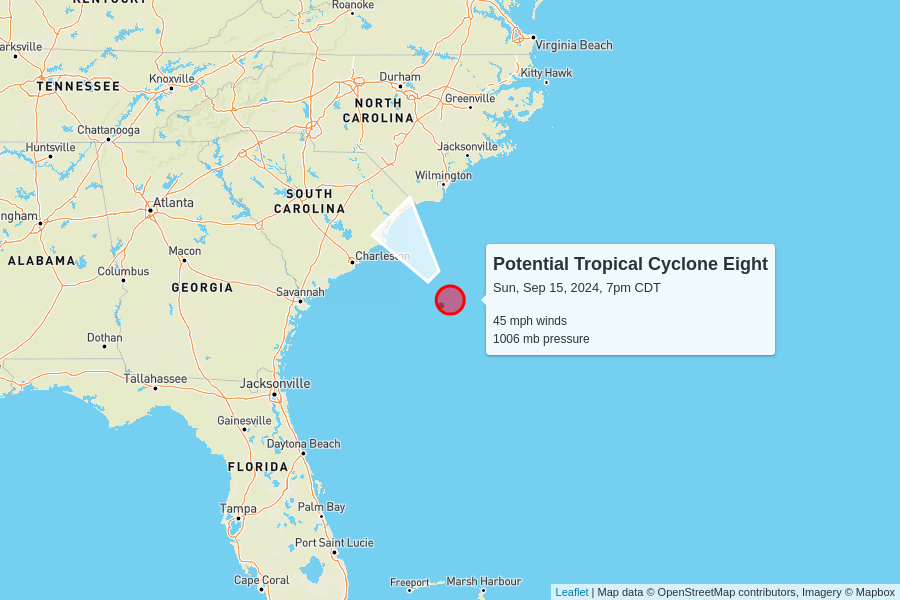
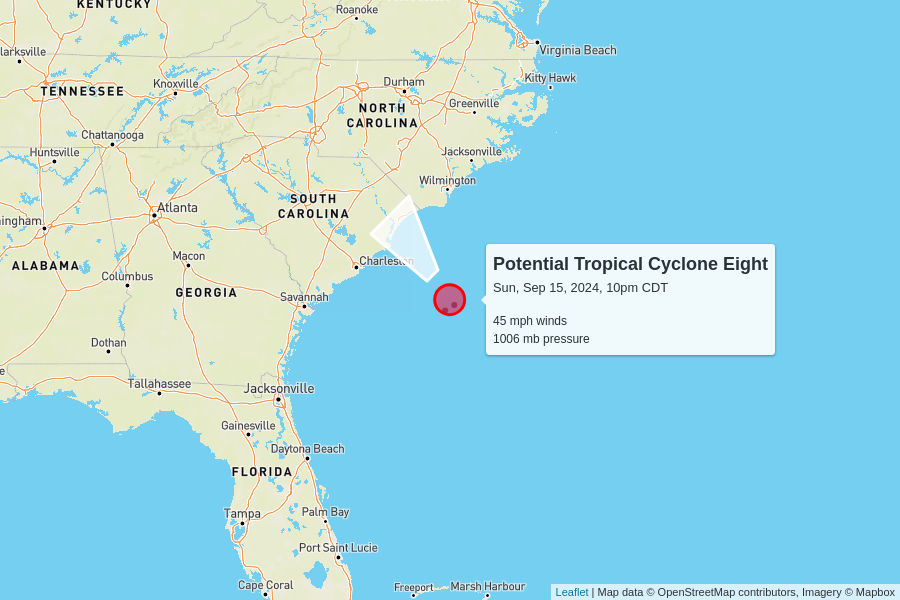
automatic update

diff --git a/docs/index.html b/docs/index.html
@@ -148,7 +148,7 @@
         <td colspan="6" class="storm category-0" >
           <h2>
             Potential Tropical Cyclone Eight
-            <p class="updated">last updated <span data-time>2024-09-16T00:00:00.000Z</span></p>
+            <p class="updated">last updated <span data-time>2024-09-16T03:00:00.000Z</span></p>
           </h2>
         </td>
       </tr>
@@ -166,7 +166,7 @@
         <td>45 mph<br>0 mph since last update</td>
         <td>1006 mb<br>0 mb since last update</td>
         <td>
-          7 mph to the northwest
+          5 mph to the northwest
           <br/>
           <span style="display: inline-block; font-size: 1.5em; transform: rotate(320deg);">↑</span>
         </td>
